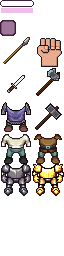
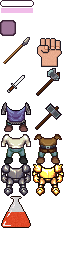
Drops

Changed region(s): [[0.0, 0.75, 0.5, 0.9062]]

diff --git a/server_mob.js b/server_mob.js
@@ -4,6 +4,8 @@ module.exports.tiles_mundo = [];
 module.exports.mobs = {};
 module.exports.server_jugador = false;
 module.exports.id_mob = 0;
+module.exports.drops = {};
+module.exports.id_drop = 0;
 
 module.exports.setInfo = function(io, tiles_mundo, items_mundo, server_jugador) {
   this.io = io;
@@ -128,6 +130,13 @@ module.exports.matarMob = function(mob) {
   mob.vida = 0;
   delete this.mobs[mob.id];
   this.io.emit('matarMob', mob.id);
+
+  if(mob.drop) {
+    var rnd = Math.random();
+    if(rnd < mob.dropRate) {
+      this.crearDrop(mob.x, mob.y, mob.drop);
+    }
+  }
 }
 
 module.exports.tickMobs = function() {
@@ -148,6 +157,38 @@ module.exports.tickMobs = function() {
 
     mob.tickAtaque++;
     this.mob_atacar(mob, target);
+  }
+}
+
+module.exports.borrarDrop = function(drop_id) {
+  this.io.emit('borrar_drop', drop_id);
+  delete this.drops[drop_id];
+}
+
+module.exports.crearDrop = function(x, y, item) {
+  var id = this.id_drop;
+  this.id_drop++;
+  var drop = {
+    id: id,
+    item: item,
+    x: x,
+    y: y,
+    ticks: 0,
+    vidaMax: 5,
+    rango: 0.01
+  };
+
+  this.drops[drop.id] = drop;
+  this.io.emit('nuevo_drop', drop);
+}
+
+module.exports.tickDrops = function() {
+  for(var drop_id in this.drops) {
+    var drop = this.drops[drop_id];
+    drop.ticks++;
+    if(drop.ticks >= drop.vidaMax) {
+      this.borrarDrop(drop.id);
+    }
   }
 }
 
@@ -193,7 +234,9 @@ var lista_mobs = {
     delayAtaque: 10,
     fuerzaAtaque: 3,
     rango: 0.5,
-    exp: 5
+    exp: 5,
+    drop: 'pocion',
+    dropRate: 0.2
   },
   "murcielago_boss": {
     fase: 'volar',
@@ -204,6 +247,8 @@ var lista_mobs = {
     fuerzaAtaque: 15,
     rango: 1,
     exp: 15,
+    drop: 'pocion',
+    dropRate: 1,
     escala: 2,
     tinte: 0x673ab7
   }

diff --git a/public/js/scenes/principal.js b/public/js/scenes/principal.js
@@ -4,6 +4,7 @@ scenePrincipal.init = function() {
   //referencias para usarlas de forma más cómoda luego
   this.tiles_mundo = this.game.datos.tiles_mundo;
   this.items_mundo = this.game.datos.items_mundo;
+  this.drops = this.game.datos.drops;
   this.size_mundo = this.items_mundo.length;
 }
 
@@ -12,6 +13,7 @@ scenePrincipal.create = function() {
 
   //pintar el mundo, los jugadores y los mobs usando los datos del servidor
   this.pintarMundo();
+  this.pintarDrops();
   this.pintarJugadores();
   this.pintarMobs();
   //evento para cuando el server manda datos nuevos sobre los jugadores y los mobs
@@ -64,6 +66,16 @@ scenePrincipal.create = function() {
   //evento para cuando el jugador aumenta su experiencia
   this.game.datos.socket.on('subirExp', function(exp) {
     self.onSubirExp(exp);
+  });
+
+  //evento para cuando se crea un nuevo drop
+  this.game.datos.socket.on('nuevo_drop', function(drop) {
+    self.crearDrop(drop);
+  });
+
+  //evento para cuando se elimina un drop
+  this.game.datos.socket.on('borrar_drop', function(drop_id) {
+    self.borrarDrop(drop_id);
   });
 
   //listener del click del ratón
@@ -228,4 +240,22 @@ scenePrincipal.pintarMundo = function() {
       }
     }
   }
+}
+
+scenePrincipal.pintarDrops = function() {
+  for(var drop_id in this.drops) {
+    var drop = this.drops[drop_id];
+    this.crearDrop(drop);
+  }
+}
+
+scenePrincipal.crearDrop = function(drop) {
+  drop.sprite = this.add.image(drop.x*32, drop.y*32, 'hud', drop.item).setScale(0.25, 0.25);
+  this.drops[drop.id] = drop;
+}
+
+scenePrincipal.borrarDrop = function(drop_id) {
+  var drop = this.drops[drop_id];
+  drop.sprite.destroy();
+  delete this.drops[drop_id];
 }

diff --git a/server.js b/server.js
@@ -7,6 +7,7 @@ var server_jugador = require('./server_jugador.js');
 
 var jugadores = server_jugador.jugadores;
 var mobs = server_mob.mobs;
+var drops = server_mob.drops;
 
 var tiles_mundo = [
   [0,  0,  0,  0,  0,  0,  0,  0,  0,  0,  0,  0,  0,  0,  0,  0,  0],
@@ -60,7 +61,7 @@ app.get('/', function(req, res) {
 io.sockets.on('connection', function(socket) {
   server_jugador.crearJugador(socket);
 
-  socket.emit('datosMapa', [jugadores, mobs, tiles_mundo, items_mundo]);
+  socket.emit('datosMapa', [jugadores, mobs, tiles_mundo, items_mundo, drops]);
   socket.broadcast.emit('nuevoJugador', jugadores[socket.id]);
 
   socket.on('disconnect', function() {
@@ -82,6 +83,11 @@ setInterval(function() {
     server_mob.crearMob(nivel);
   }
 }, 5000);
+
+
+setInterval(function() {
+  server_mob.tickDrops();
+}, 1000);
 
 setInterval(function() {
   server_jugador.updateJugadores();

diff --git a/server_jugador.js b/server_jugador.js
@@ -92,6 +92,7 @@ module.exports.crearJugador = function(socket) {
     lastDir: 'quieto_abajo',
     vel: 0.02,
     tickAtaque: 0,
+    pociones: 0
   }
   this.ponerArma(socket.id, "item_mano");
   this.ponerArmadura(socket.id, "pj_tela");
@@ -201,6 +202,24 @@ module.exports.updateJugadores = function() {
         jugador.y = old_coords[1];
       }
     }
+
+    this.check_drops(jugador);
+  }
+}
+
+module.exports.check_drops = function(jugador) {
+  for(var drop_id in this.server_mob.drops) {
+    var drop = this.server_mob.drops[drop_id];
+
+    if(!enRango(jugador, drop)) {
+      continue;
+    }
+
+    if(drop.item == 'pocion') {
+      jugador.pociones++;
+    }
+
+    this.server_mob.borrarDrop(drop_id);
   }
 }
 

diff --git a/public/js/scenes/precarga.js b/public/js/scenes/precarga.js
@@ -40,6 +40,7 @@ scenePrecarga.create = function() {
     self.game.datos.mobs = datos[1];
     self.game.datos.tiles_mundo = datos[2];
     self.game.datos.items_mundo = datos[3];
+    self.game.datos.drops = datos[4];
 
     self.scene.launch('principal');
     self.scene.launch('hud');

diff --git a/public/js/jugador.js b/public/js/jugador.js
@@ -22,6 +22,7 @@ scenePrincipal.onUpdateJugador = function(jugadores) {
     j.armadura = jugador.armadura;
     j.delayAtaque = jugador.delayAtaque;
     j.nivel = jugador.nivel;
+    j.pociones = jugador.pociones;
   }
 }
 
